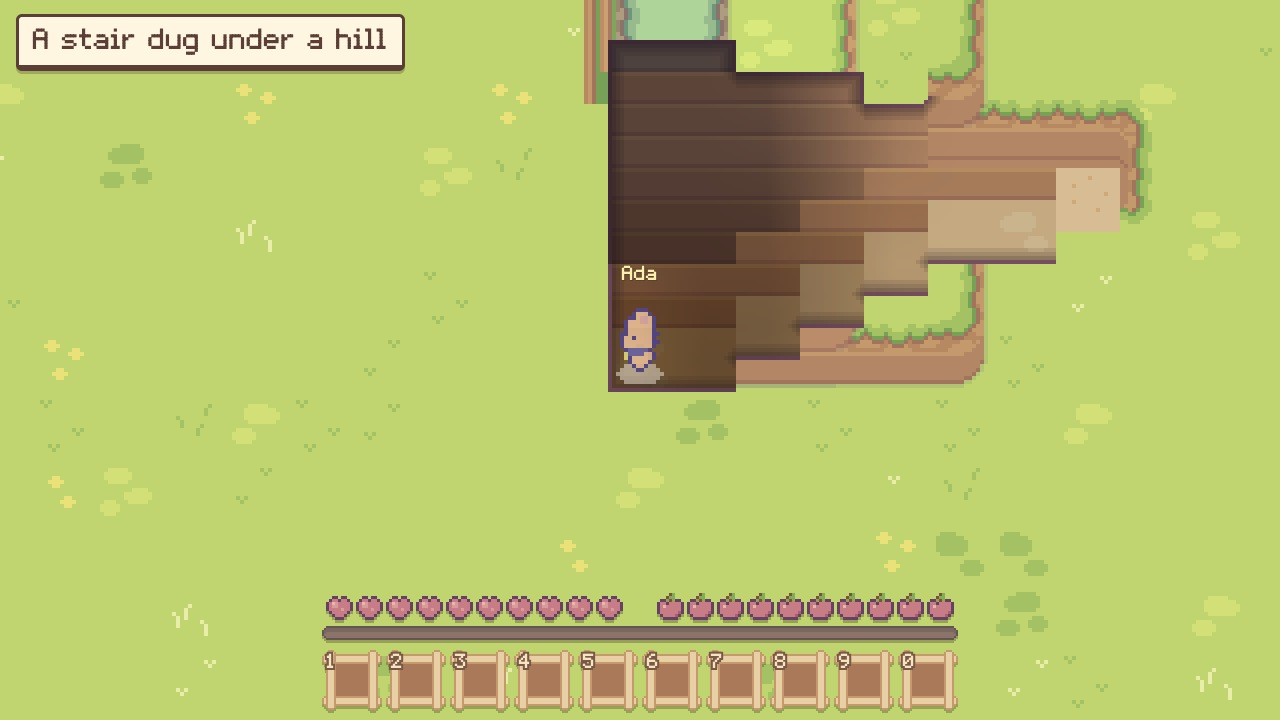
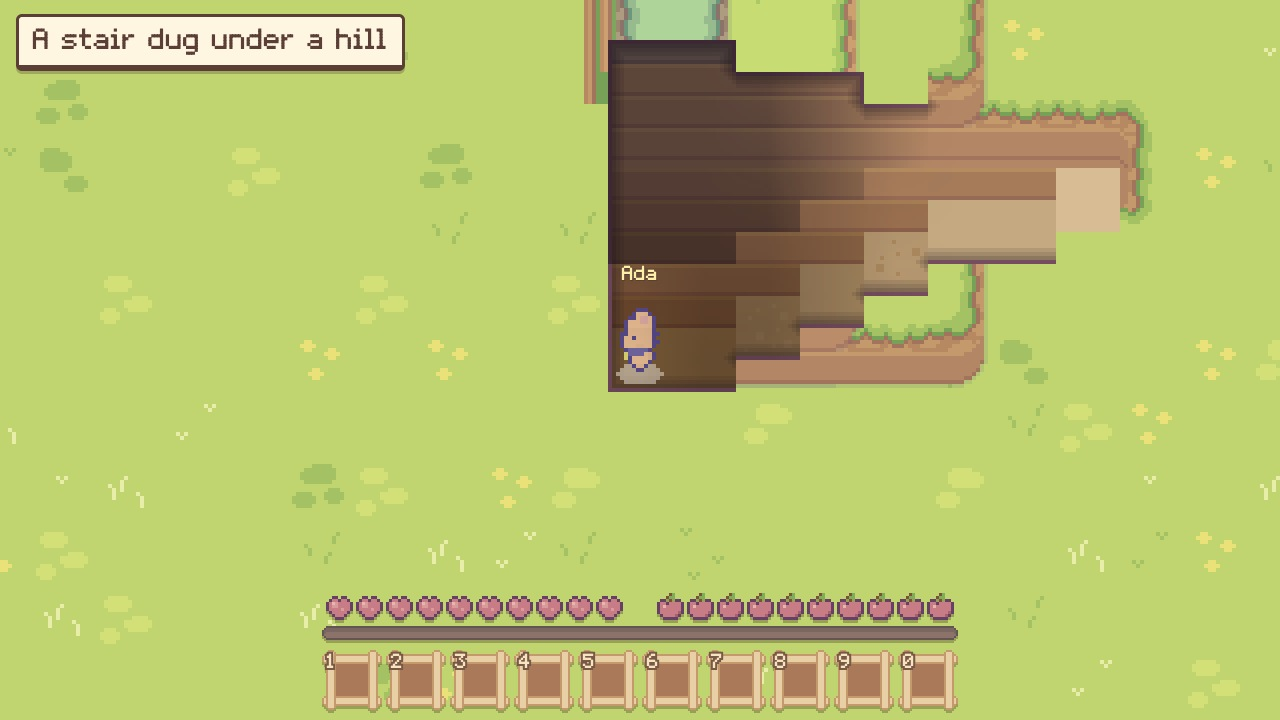
fix(web): a wall under a roof has its bands where the pit beside it has
A wall under a roof has its bands where the pit beside it has them ("still got a weird tileset jump")

The cut laid its wall's bands on the tiles' lines; the land lays a pit's wall with the bands over the sea's level
two px up and two px of the tile's foot under them, so every line of the wall broke by two px where a roof starts.
The cut lays them as the land does. At that corner: no ink up the side of the pit's wall, grass to the corner of the
tile behind the roof, and the earth's dark starts from nothing where the roof starts, not from half.

The x-ray's pixel test still fails now and then on a loaded machine (not fixed by the commit before, as I wrote):
it now says where the two pictures differ.

Claude-Session: https://claude.ai/code/session_011zaXs2MUMAd8vYwC7YncED

diff --git a/src/megastructure/web/js/xraycut.js b/src/megastructure/web/js/xraycut.js
@@ -41,25 +41,33 @@ function xrayCut({W, h, w, R, y, see, seen, floor, floors, place, rocks, paint})
   const roofT = new Uint8Array(w * R.h), band = (k, m) => colsOf(hillSheet(k)).bands[m <= 0 ? 0 : m >= 7 ? 2 : 1];
   for (const k of floor.keys()) { const [x, ty] = k.split(",").map(Number), i = x - R.x, j = ty - R.y; if (i >= 0 && i < w && j >= 0 && j < R.h) roofT[j * w + i] = 1; }
   const rows = (i, j) => { const f0 = lvOf(i, j), Y = (R.y + j) * 16 - y; return [Y, Y - shOf(Math.max(f0, lvOf(i, j - 1))), Y - shOf(f0)]; };   // (a tile's line at sea level, the top of the wall behind it, the top of its floor)
-  const cols = new Map();                                    // (a tile of the place -> its column in the picture: [px across, its wall's first row, the foot of its floor]: a light's reach, daylight.js)
+  const r0T = new Int32Array(w * R.h), cols = new Map();                                    // (a tile of the place -> its column in the picture: [px across, its wall's first row, the foot of its floor]: a light's reach, daylight.js)
   for (let j = 0; j < R.h; j++) for (let i = 0; i < w; i++) if (deepT[j * w + i]) {
-    const [Y, r0, top] = rows(i, j), t = j * w + i, roofed = roofT[t];
-    cols.set((R.x + i) + "," + (R.y + j), [i * 16, r0 - 3, top + 16]);
+    const [Y, r0, top] = rows(i, j), t = j * w + i, roofed = roofT[t], F = lvOf(i, j);
+    cols.set((R.x + i) + "," + (R.y + j), [i * 16, r0 - 3, top + 16]); r0T[t] = r0;
     for (let r = Math.max(0, r0 - 3); r < Math.min(h, top + 16); r++) for (let f = r * W + i * 16, e = f + 16; f < e; f++) {
       const back = roofed && r >= r0 && r < top, put = fill[f] || see.state[f] === 1;   // (back: over the floor of a tile under a roof: the wall behind it, whatever was painted)
-      if ((!put && !back) || (r < r0 && see.band[f] !== 1)) continue;
+      if (roofed && r < r0 && see.state[f] === 1 && see.band[f] === 1 && tileOf(f, 4) === t) {   // (under a roof the cut starts on the tile's line: a px of
+        const up = wall.get(f - W) || (see.state[f - W] === 1 && !see.band[f - W] ? [paint[f - W] & 255, paint[f - W] >> 8 & 255, paint[f - W] >> 16 & 255] : null);   //  wall over it, where the corner of the tile behind is rounded off on the land, is that tile's ground, as over it)
+        if (up) wall.set(f, up);
+      }
+      if ((!put && !back) || (r < r0 && (roofed || see.band[f] !== 1))) continue;       // (over a tile's line: the set-in top of a wall the land painted, of a tile open to the sky; under a roof the cut starts on the line)
       if (put && !fill[f]) {                                 // (of what was painted there: the place's floors, and the wall behind this tile, its bands and
         const ts = tileOf(f), tf = tileOf(f, 4);            //  what shows between them of the tile behind, painted a level down; not land that stands in front
         if (see.band[f] === 1 ? tf !== t : see.band[f] === 0 && (ts < 0 || (!deepT[ts] && (ts !== t - w || see.lev[f] >= lvT[at(ts % w, ts / w | 0)])))) continue;   //  of it: its top, its wall. A ledge down the tile's side is of the place: the line is on the tile's edge, not two px in, "this border is weird")
       }
       deep[f] = 1; own[f] = t + 1;
       if (!back || fill[f]) continue;
-      // (a wall cut through is its bands, a layer each, and no more: where the land's painter put something else
-      // there, a sliver of grass through the set-in edge of a hill that steps down beside it, the end of a ledge that
-      // hung from the roof's side and the band under it, two px out of step: the band, as it paints it)
-      const k = Math.ceil((Y - r) / 8);
-      if (!put || see.band[f] !== 1 || !seen[f] || see.lev[f] !== k) { wall.set(f, band(k, r - (Y - shOf(k)))); if (!seen[f]) { seen[f] = 1; more++; } see.lev[f] = k; see.band[f] = 1; }
-      if (landSolid(R.x + i, R.y + j, k)) solid[f] = 1;      // 2
+      // (a wall cut through is its bands, a layer each, and no more, whatever the land's painter put there: a sliver
+      // of grass through the set-in edge of a hill that steps down beside it, the end of a ledge that hung from the
+      // roof's side. Laid as that painter lays the wall of a hole open to the sky: the bands over the sea's level
+      // two px up, where a hill's edge is set in (so the first is two px short under a roof, which starts on the
+      // tile's line), then two px of the foot of the tile behind before the first band under the sea's level, or
+      // before the floor. They were all on the tiles' lines: two px out of step with the wall of a pit beside the
+      // roof, every line of it broken where the roof starts, "still got a weird tileset jump")
+      const rr = r < Y + 6 ? r + 2 : r, k = Math.ceil((Y - rr) / 8), foot = k <= F || (r >= Y + 6 && r < Y + 8), lv = foot ? Math.max(F + 1, 0) : k;
+      wall.set(f, foot ? band(lv, 3) : band(k, rr - (Y - shOf(k)))); if (!seen[f]) { seen[f] = 1; more++; } see.lev[f] = lv; see.band[f] = 1;
+      if (landSolid(R.x + i, R.y + j, lv)) solid[f] = 1;     // 2
     }
   }
   // (and beside a tile under a roof, the wall of one open to the sky: the four px of it next to that tile had the same
@@ -91,6 +99,7 @@ function xrayCut({W, h, w, R, y, see, seen, floor, floors, place, rocks, paint})
     // (the land's own rim: behind this tile; beside it, as far down as that tile's top is drawn; and whatever tile's top q is)
     if (t >= 0 && dy <= 0 && ti >= 0 && ti < w && tj >= 0 && rimT[tj * w + ti] && (dy < 0 || (f / W | 0) < (R.y + tj) * 16 - y - shOf(lvT[at(ti, tj)]) + 16)) return false;
     if (see.state[q] === 1 && !see.band[q] && rimT[Math.max(0, tileOf(q))]) return false;
+    if (dx && t >= 0 && (f / W | 0) < r0T[t]) return false;    // (nor down the side of a wall's top where it is set in over its tile's line, two px: beside a roof they were two px of ink up into the pit's rim)
     if (see.band[f] || fill[f] || t < 0) return true;         // (a wall, earth that was cut: no way through)
     if (walk[t * 4 + d] < 0) walk[t * 4 + d] = landAt(lvOf(i, j), R.x + i + dx, R.y + j + dy, R.x + i, R.y + j) === null ? 0 : 1;
     return !walk[t * 4 + d];

diff --git a/src/megastructure/web/js/cavelight.js b/src/megastructure/web/js/cavelight.js
@@ -81,10 +81,15 @@ function drawUnderDark(vis, sx, sy, t) {
     dark[at(x, y)] = (1 - Math.min(1, light)) * DARKEST;
     earth[at(x, y)] = (1 - sun * Math.max(0, 1 - (d - .5) / EARTH_REACH)) * UNLIT_EARTH;
   }
+  // (a tile under the sky beside one under a roof: as far under nought as that one's earth is over it, so the dark of
+  // the earth starts from nothing where the roof starts and is whole a half tile in: it started at half, a step in
+  // the wall's light at the very line where the roof starts, the wall the same on both sides of it)
+  const set = dark.map((v) => (v < 0 ? 0 : 1));
+  for (const k of P.place.keys()) if (!P.floor.has(k)) { const [x, y] = k.split(",").map(Number); if (inPic(x, y)) earth[at(x, y)] = -Math.max(0, ...tilesBeside(k).map(([nx, ny]) => (P.floor.has(nx + "," + ny) && inPic(nx, ny) ? earth[at(nx, ny)] : 0))); }
   for (const g of [dark, earth]) {                         // (the earth round it and between its parts: as the tiles of the place beside it, so its edges don't fade)
     const own = g.slice();
-    for (let q = tw; q < n - tw; q++) if (own[q] < 0) { let sum = 0, cnt = 0; for (const o of [-1, 1, -tw, tw, -tw - 1, -tw + 1, tw - 1, tw + 1]) if (own[q + o] >= 0) { sum += own[q + o]; cnt++; } g[q] = cnt ? sum / cnt : 0; }
-    for (let q = 0; q < n; q++) if (g[q] < 0) g[q] = 0;
+    for (let q = tw; q < n - tw; q++) if (!set[q]) { let sum = 0, cnt = 0; for (const o of [-1, 1, -tw, tw, -tw - 1, -tw + 1, tw - 1, tw + 1]) if (set[q + o]) { sum += own[q + o]; cnt++; } g[q] = cnt ? sum / cnt : 0; }
+    for (let q = 0; q < n; q++) if (!set[q] && (q < tw || q >= n - tw)) g[q] = 0;
   }
   const L = litPx(P), px = P.img.data, mix = (g, q, a, b) => (g[q] * (1 - a) + g[q + 1] * a) * (1 - b) + (g[q + tw] * (1 - a) + g[q + tw + 1] * a) * b;
   for (let i = 0; i < L.f.length; i++) {

diff --git a/tests/e2e/test_e2e_underground.py b/tests/e2e/test_e2e_underground.py
@@ -158,3 +158,36 @@ def test_light_is_one_model_no_edge_where_a_roof_starts_and_none_through_the_ear
     assert near[1] < .3 and through[1] > .5, (near, through)
     assert not game.errors
 
+
+# the screen without anybody on it: the colour of each art px down a tile's column, ax px across it, from a0 to a1 px
+# under its line at sea level -> [[r, g, b]...]
+DOWN = """([x, y, ax, a0, a1]) => { const keep = {}; for (const f of ['drawEntity', 'drawNameplate', 'drawEmote', 'drawSelector', 'drawIntent']) { keep[f] = window[f]; window[f] = () => null; }
+  frame(performance.now()); const S = TS(), [ox, oy] = screenOrigin(S), k = S / 16, out = [];
+  for (let ay = a0; ay <= a1; ay++) out.push(Array.from(ctx.getImageData(Math.round((ox + x * S + (ax + .5) * k) * DPR), Math.round((oy + y * S + (ay + .5) * k) * DPR), 1, 1).data).slice(0, 3));
+  Object.assign(window, keep); return out; }"""
+
+
+def test_a_wall_under_a_roof_has_its_bands_where_the_pit_beside_it_has_them(game):
+    """"Still got a weird tileset jump", where a stair open to the sky goes in under a roof: the wall cut through had
+    its bands on the tiles' lines, the land's own wall has those over the sea's level two px up (a hill's edge is set
+    in) and two px of the tile's foot under them, so every line of the wall broke where the roof starts. And at that
+    corner two px of the cut's ink went up into the pit's rim, and the earth's dark started at half its strength."""
+    game.clear_area(12)
+    x, y = game.pos()
+    game.rpc("dev_time", phase=.4)
+    game.stamp(1, 0, ["........"], levels=["abcddddd"], roofs=["00004444"], heads=["00002222"])
+    X = x + 5                                                # (the first tile under the roof; the one west of it is as deep, open to the sky)
+    game.rpc("dev_teleport", x=X, y=y, z=-4)
+    game.wait(f"myAt && myAt.x === {X} && myAt.z === -4", 8000)
+    game.wait(DRAWN, 8000); game.wait(SEEN, 20000)
+    lines = lambda px: [r for r in range(1, 32) if sum(px[r]) < sum(px[r - 1]) - 15 and sum(px[r]) < sum(px[r + 1]) - 15]   # (the rows darker than those over and under them)
+    assert lines(game.js(DOWN, [x + 4, y, 8, 0, 32])) == [5, 15, 23, 31]          # the land's own wall, four layers down
+    assert lines(game.js(DOWN, [X, y, 8, 0, 32])) == [5, 15, 23, 31]              # the wall cut through: the same rows (they were 7, 15, 23, 31)
+    assert lines(game.js(DOWN, [X, y, 1, 0, 32])) == [5, 15, 23, 31]              # ...right beside the pit too
+    line = lambda *a: game.js("([x, y, ax, ay]) => { const P = xray.pic; return P.line[(y * 16 + ay - P.y) * P.w + x * 16 + ax - P.x]; }", list(a))
+    assert line(X, y, 8, 0) and not line(X, y, 8, -1)                             # the cut starts on its tile's line, under a roof
+    assert not line(x + 4, y, 15, -2) and not line(x + 4, y, 15, -1)              # no ink up the side of the pit's wall where it starts, two px over that line
+    for r, g, b in game.js(DOWN, [X, y, 0, -2, -1]): assert g > r + 12            # the tile behind the roof: grass to its corner
+    assert game.js(LIT, [X, y, 0, 0, 4])[1] < .04 < .06 < game.js(LIT, [X, y, 0, 8, 4])[1]   # the earth's dark: from next to nothing where the roof starts (it was half of it there)
+    assert not game.errors
+

diff --git a/tests/e2e/test_e2e_xray.py b/tests/e2e/test_e2e_xray.py
@@ -73,8 +73,8 @@ def test_the_circle_is_painted_by_the_lands_own_painter(game):
     for dx, dy in [(0, 0), (-3, 1), (3, 0), (1, 1)]:
         x, y = game.pos()
         game.rpc("dev_teleport", x=x + dx, y=y + dy); at(x + dx, y + dy); game.wait(built, 20000); game.sleep(200)
-        shown, bad = frames(game, "const A = shot('whole'), any = xray.a === 1 && xray.pic.any; return [any, differ(A, shot('off'))];")
-        assert shown > 10000 and bad == 0, (dx, dy, shown, bad)
+        shown, bad, why = frames(game, "const A = shot('whole'), any = xray.a === 1 && xray.pic.any, Z = shot('off'), box = [1e9, 1e9, -1, -1]; let n = 0; for (let i = 0; i < A.length; i += 4) if (A[i] !== Z[i] || A[i + 1] !== Z[i + 1] || A[i + 2] !== Z[i + 2]) { n++; const x = (i / 4) % cv.width, y = (i / 4 / cv.width) | 0; box[0] = Math.min(box[0], x); box[1] = Math.min(box[1], y); box[2] = Math.max(box[2], x); box[3] = Math.max(box[3], y); } return [any, n, n ? {box: box.map((v, q) => +((v / DPR - (q & 1 ? oy : ox)) / S).toFixed(2)), me: [myAt.x, myAt.y], dirty: dirtyTiles.length, caveStamp, open: xray.open} : null];")
+        assert shown > 10000 and bad == 0, (dx, dy, shown, bad, why)   # (why: on a loaded machine this fails now and then at the first place, cause not found: where the two differ, in tiles, and the caves' state)
         game.rpc("dev_teleport", x=x, y=y); at(x, y)
     assert not game.errors
 

diff --git a/JOURNAL.md b/JOURNAL.md
@@ -2220,4 +2220,22 @@ not its body).
 - And: "This border is weird", the east end of an open stair: the thin line the land paints down a dug tile's side
   (its side wall, a px or two) was left out of the place's shape, so the outline ran two px in from the tile's edge,
   a strip of wall outside it, and missed the floor's corner. It is of the place: the line is on the tile's edge.
+- Then: "Still got a weird tileset jump", where the stair open to the sky goes in under the hill. Measured on the
+  screen, a px at a time (a column each side of the seam): the wall cut through had its bands on the tiles' lines;
+  the land's own wall, of a hole open to the sky, has the bands over the sea's level two px up (a hill's edge is set
+  in two px) and two px of the tile's foot under them. So every line of the wall broke by two px where the roof
+  starts. The cut lays its bands as the land does now (xraycut.js); it still starts on its tile's line, so its first
+  band is two px short. At that corner too: two px of the cut's ink went up the side of the pit's wall, into its
+  rim (no line there now), a px of wall was left in the corner of the tile behind the roof (grass now), and the
+  earth's dark started at half its strength at the very line where the roof starts (cavelight.js: from nothing).
+- What I tried first and threw away: the land's own rim round a place under a roof, as round a pit, so that both
+  sides of the seam were one thing. It is what the user had sent back before ("It goes under the background tiles.
+  Completely.."): I looked at that picture again before landing it. The roof's top stays a clean line.
+- Test: the rows of the wall that are darker than those over and under them are the same down the pit's wall and
+  down the wall under the roof beside it (5, 15, 23, 31; they were 7, 15, 23, 31), no line up the pit's side, grass
+  to the corner, the dark next to nothing at the seam. It fails on the code before.
+- Wrong in the entry above: the x-ray's pixel test is not fixed. It failed again on a loaded machine, at its first
+  place, 4176 px, with the caves' redraw at once. It now says where the two pictures differ: a box a tile and a half
+  wide at the east end of the water, beside the cave's plateau, not at the cave's mouth. Cause not found; it passes
+  alone and in most loaded runs (it failed in two of about twelve today).
 
